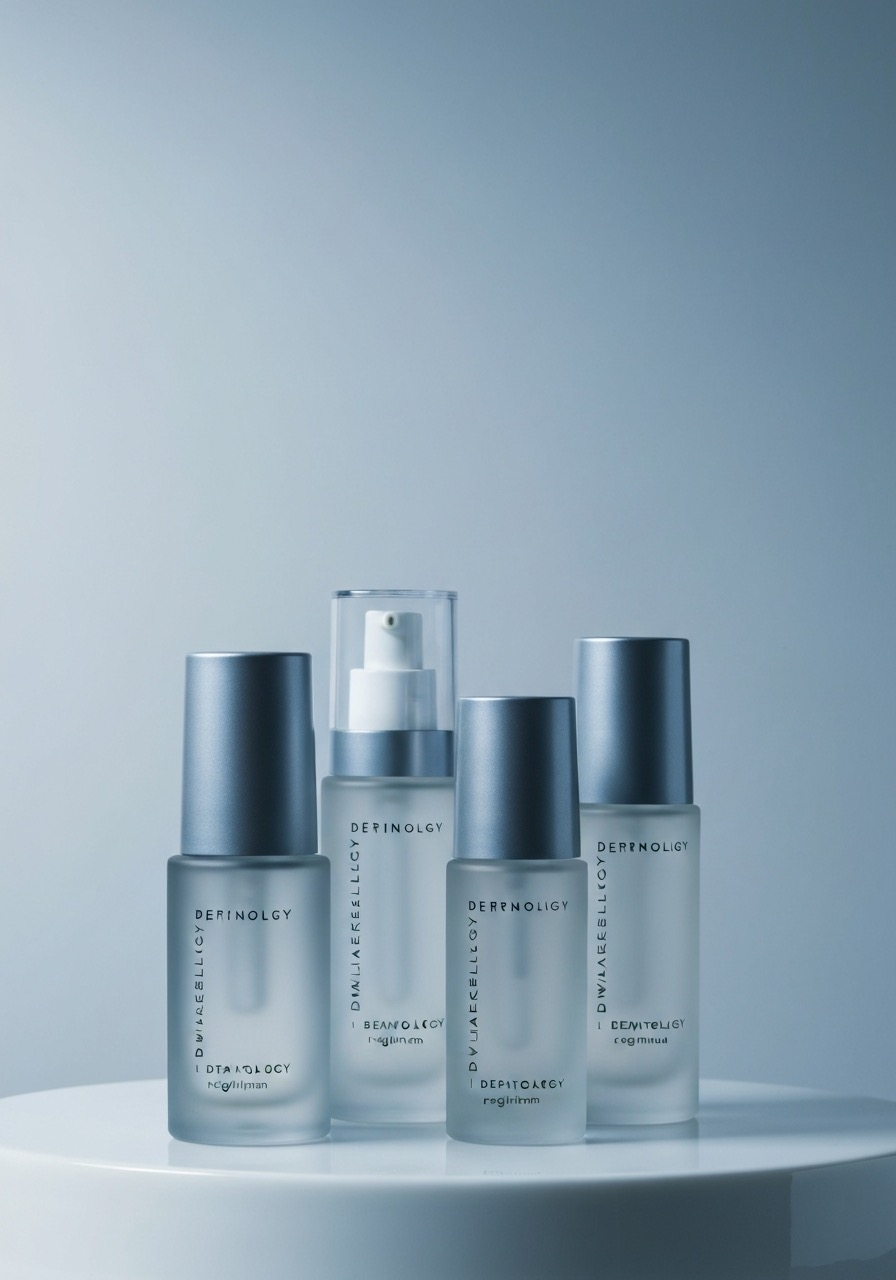
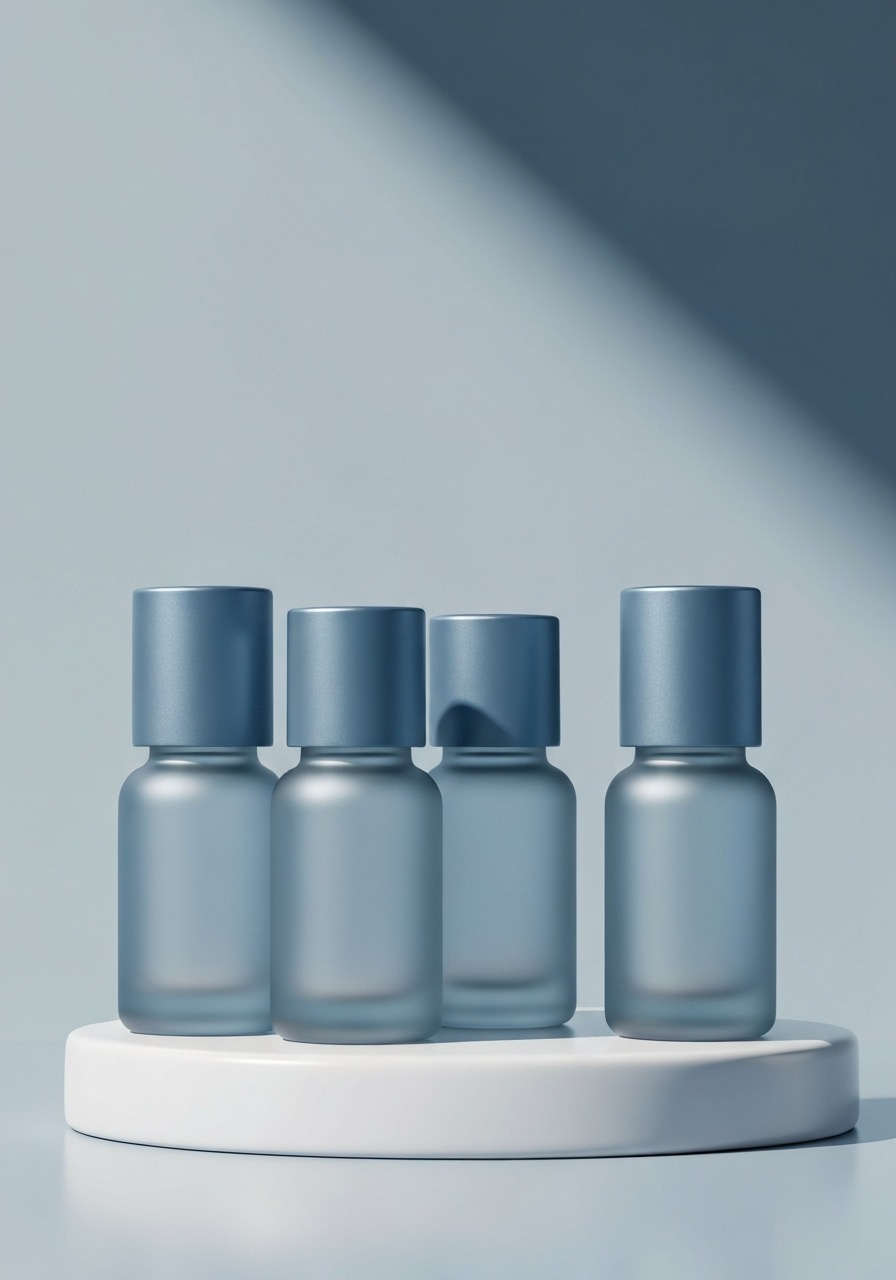
Regenerate halo-set-01 and halo-mist-01 clean and text-free; drop em dash in halo.css comment
Both product images had garbled baked-in AI lettering (failed DERMATOLOGY on the
set, gibberish Facial Mistt/Toner/Premmm on the mist). Regenerated unlabeled and
text-free on the slate-blue clinical palette. Also replaced an em dash with a comma
in the halo.css header comment per repo style.

diff --git a/halo.css b/halo.css
@@ -1,4 +1,4 @@
-/* Halo — clinical dermatology skincare. A formulation dossier identity: porcelain
+/* Halo, clinical dermatology skincare. A formulation dossier identity: porcelain
    neutrals, one slate-blue data-ink accent, wide sans display, mono for batch and
    concentration data. Shared across every page so the design system and the applier
    gate CSS stay identical. */
